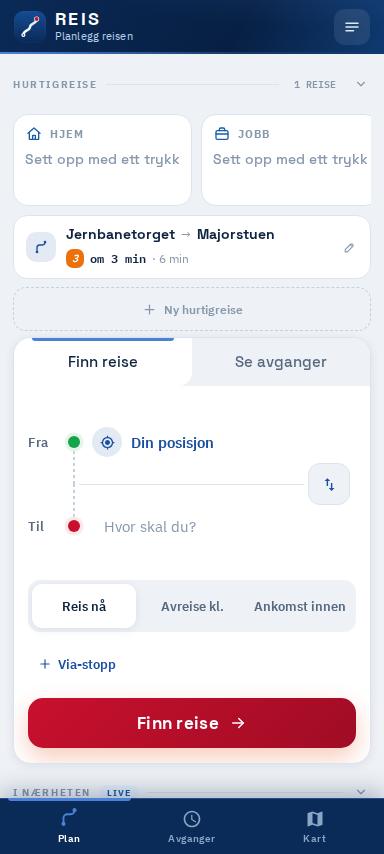
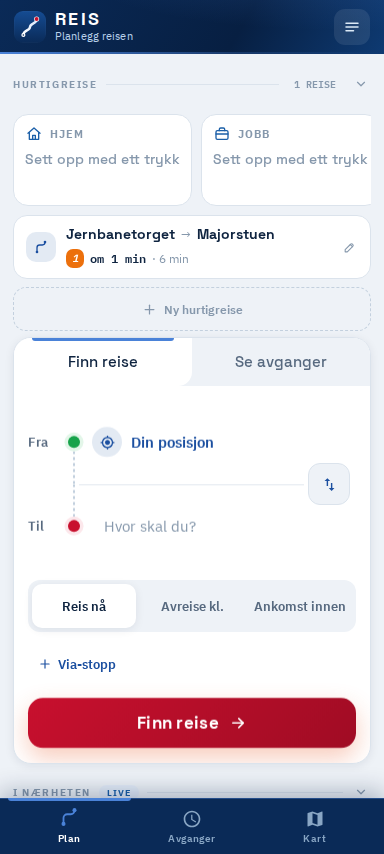
Add files via upload

Changed region(s): [[0.4688, 0.822, 0.5625, 0.8525]]

diff --git a/index.html b/index.html
@@ -433,7 +433,10 @@ a{color:inherit}
 .place-stop:hover{border-color:var(--tab-2)}
 .ps-name{flex:1;min-width:0;font-size:13.5px;font-weight:600;white-space:nowrap;overflow:hidden;text-overflow:ellipsis}
 .ps-dist{flex:none;font-family:var(--font-m);font-size:11.5px;color:var(--muted)}
-#mapHint{position:absolute;left:50%;top:14px;transform:translateX(-50%);z-index:1056;
+/* FIX: hintet lå på top:14px, altså rett oppå modusraden. Toppen av kartet
+   stables nå etter målt høyde, på samme måte som bunnen. */
+#viewMap{--top-h:0px}
+#mapHint{position:absolute;left:50%;top:calc(12px + var(--top-h));transform:translateX(-50%);z-index:1056;
   background:rgba(7,31,66,.86);color:#fff;font-size:12px;font-weight:600;padding:8px 14px;border-radius:999px;
   backdrop-filter:blur(6px);pointer-events:none;animation:viewIn .3s ease}
 /* Posisjonsknappen lyser når «følg meg» er på */
@@ -448,12 +451,12 @@ a{color:inherit}
 .mb-btn svg{width:17px;height:17px;flex:0 0 auto;display:block}
 .mb-btn.on{background:var(--navy);color:#fff;box-shadow:var(--sh-1)}
 .mb-btn.on svg{color:var(--tab-2)}
-#mapCtxChip{position:absolute;top:64px;left:12px;z-index:1040;background:var(--navy);color:#fff;font-size:12px;padding:8px 13px;border-radius:999px;box-shadow:var(--sh-2);display:flex;gap:7px;align-items:center;max-width:72%;white-space:nowrap;overflow:hidden;text-overflow:ellipsis}
+#mapCtxChip{position:absolute;top:calc(12px + var(--top-h) + var(--hint-h,0px));left:12px;z-index:1040;background:var(--navy);color:#fff;font-size:12px;padding:8px 13px;border-radius:999px;box-shadow:var(--sh-2);display:flex;gap:7px;align-items:center;max-width:72%;white-space:nowrap;overflow:hidden;text-overflow:ellipsis}
 #mapCtxChip b{font-family:var(--font-m)}
 /* Kartkortet, lagvelgeren og knappene lå alle forankret til bunnen med faste
    pikselverdier – derfor la de seg oppå hverandre. Nå stables de: --card-h og
    --layer-h måles i JS, og alt over regner seg ut fra dem. */
-#viewMap{--card-h:0px;--layer-h:0px}
+#viewMap{--card-h:0px;--layer-h:0px;--top-h:0px;--hint-h:0px}
 .fabs{position:absolute;right:12px;z-index:1050;display:flex;flex-direction:column;gap:9px;
   bottom:calc(18px + var(--card-h) + var(--layer-h));
   transition:bottom .28s cubic-bezier(.22,1,.36,1)}
@@ -664,6 +667,7 @@ a{color:inherit}
 /* Fra/Til som rader med felles skillelinje – ikke to separate bokser */
 .sc-row{display:flex;align-items:center;gap:12px;min-height:48px}
 .sc-lab{flex:none;width:28px;font-size:12.5px;font-weight:600;color:var(--muted);letter-spacing:.01em}
+.sc-lab-wide{width:auto;min-width:40px}
 .sc-row input{flex:1;min-width:0;height:44px;border:none;background:none;font-size:15px;
   font-family:var(--font-b);color:var(--ink)}
 .sc-row input::placeholder{color:var(--faint)}
@@ -949,7 +953,7 @@ a{color:inherit}
 
             <div class="sc-body" id="scStop" hidden>
               <div class="sc-row">
-                <span class="sc-lab">Stopp</span>
+                <span class="sc-lab sc-lab-wide">Stopp</span>
                 <input type="text" id="scStopInput" data-ac="1" autocomplete="off" placeholder="Søk etter holdeplass">
               </div>
               <div class="sc-acts">
@@ -2986,8 +2990,14 @@ function syncModeBar(){
   /* Modusraden gjelder ruteberegning. Uten en rute var den en meny uten
      funksjon, så den vises først når du faktisk har noe å regne om. */
   const bar=$('#modeBar');
-  if(bar)bar.hidden=!(state.selectedPattern||state.streetRoute||(state.stops[0]&&state.stops[0].lat&&state.stops.at(-1)&&state.stops.at(-1).lat));
-  $$('#modeBar .mb-btn').forEach(b=>b.classList.toggle('on',b.dataset.mode===state.routeMode))}
+  if(bar){
+    const før=bar.hidden;
+    bar.hidden=!(state.selectedPattern||state.streetRoute||
+      (state.stops[0]&&state.stops[0].lat&&state.stops.at(-1)&&state.stops.at(-1).lat));
+    if(før!==bar.hidden&&typeof measureStack==='function')measureStack();
+  }
+  $$('#modeBar .mb-btn').forEach(b=>b.classList.toggle('on',b.dataset.mode===state.routeMode));
+}
 function selectPattern(i){state.selectedPattern=state.results[i];if(!state.selectedPattern)return;state.routeMode='transit';state.streetRoute=null;syncModeBar();switchTab('map')}
 
 function toolsHTML(withWakeExit){
@@ -3249,8 +3259,8 @@ const STOP_ZOOM=13, MAX_PINS=45;
 async function loadStopMarkers(force){
   if(!mapUsable()||!stopsLayer)return;
   const z=map.getZoom();
-  if(z<STOP_ZOOM){stopsLayer.clearLayers();shownStopIds.clear();$('#mapHint').hidden=false;return}
-  $('#mapHint').hidden=true;
+  if(z<STOP_ZOOM){stopsLayer.clearLayers();shownStopIds.clear();$('#mapHint').hidden=false;measureStack();return}
+  if(!$('#mapHint').hidden){$('#mapHint').hidden=true;measureStack()}
   if(stopMarkersBusy)return;
   /* Bremsen skal hindre kall ved smådrag – ikke ved zoom eller nytt område. */
   const c0=map.getCenter();
@@ -3469,13 +3479,27 @@ function applyCardCollapse(){
 }
 /* Måler hva som faktisk står nederst, slik at ingenting overlapper uansett
    hvor høyt kortet blir. Kalles ved hver endring, og av en ResizeObserver. */
+let stackRaf=0;
 function measureStack(){
+  /* Elementene tegnes og måles i samme tikk. Blir noe synlig rett før, rekker
+     ikke layouten å bli oppdatert – derfor en ekstra måling neste bilde. */
+  cancelAnimationFrame(stackRaf);
+  stackRaf=requestAnimationFrame(()=>measureStackNow());
+  measureStackNow();
+}
+function measureStackNow(){
   const vm=$('#viewMap'),card=$('#mapCard'),ls=$('#layerSheet');
   if(!vm)return;
   const ch=(card&&!card.hidden)?card.offsetHeight+12:0;
   const lh=(ls&&!ls.hidden)?ls.offsetHeight+8:0;
   vm.style.setProperty('--card-h',ch+'px');
   vm.style.setProperty('--layer-h',lh+'px');
+  /* Toppen: modusraden og hintet skal stable seg, ikke overlappe. */
+  const mb=$('#modeBar'),hint=$('#mapHint');
+  const th=(mb&&!mb.hidden)?mb.offsetHeight+8:0;
+  vm.style.setProperty('--top-h',th+'px');
+  const hh=(hint&&!hint.hidden)?hint.offsetHeight+8:0;
+  vm.style.setProperty('--hint-h',hh+'px');
 }
 if(window.ResizeObserver){
   const ro=new ResizeObserver(()=>measureStack());
@@ -3551,7 +3575,7 @@ function showRouteCard(p){
   bindCardGrip();
   $('#mcDetail').onclick=()=>openDetail(state.results.indexOf(p));
   $('#mcClear').onclick=clearRoute;$('#mcSetB').onclick=armMapTap;bindTools($('#mcTools'),true);
-  $('#mapCtxChip').innerHTML=`Kollektiv · <b>${fmtDur(p.duration)}</b> · ${p.legs.length} etapper`;
+  $('#mapCtxChip').innerHTML=`Kollektiv · <b>${fmtDur(p.duration)}</b> · ${p.legs.length} etapper`;measureStack();
   fillCompare('transit');if(to.lat)fillWeather(to.lat,to.lon);if(p.distance)fillCO2(p.distance);fillFareMeta();
 }
 async function computeStreetRoute(m){
@@ -3585,7 +3609,7 @@ function showStreetCard(route,m,pts){
    <div class="mc-acts"><button class="mini-btn" id="mcSetB">${IC.pin}Sett mål på kartet</button></div>`);
   bindCardGrip();
   $('#mcClear').onclick=clearRoute;$('#mcSetB').onclick=armMapTap;bindTools($('#mcTools'),false);
-  $('#mapCtxChip').innerHTML=`${st.l} · <b>${fmtDur(route.duration)}</b> · ${fmtWalk(route.distance)}`;
+  $('#mapCtxChip').innerHTML=`${st.l} · <b>${fmtDur(route.duration)}</b> · ${fmtWalk(route.distance)}`;measureStack();
   fillCompare(m);fillWeather(b.lat,b.lon);
   if(m==='bike'||m==='foot')fillElev(route.geometry.coordinates.map(c=>[c[1],c[0]]));
   if(m==='bike'){const nb=nearestBike(b.lat,b.lon);if(nb){const slot=$('#mcMeta');if(slot)slot.innerHTML+=`<span class="meta-chip bike">${IC.bike}${esc(nb.name)} · ${nb.avail} ledige · ${fmtWalk(nb.dist)}</span>`}
@@ -3716,7 +3740,7 @@ function showStopCard(s){
     <div id="mcRows"><div class="skel" style="height:40px;margin-top:8px"></div></div>`);
   bindCardGrip();
   $('#mcAll').onclick=()=>switchTab('depart');bindTools($('#mcTools'),false,s.id,s.name);
-  $('#mapCtxChip').innerHTML=`Stoppested · ${esc(s.name)}`;
+  $('#mapCtxChip').innerHTML=`Stoppested · ${esc(s.name)}`;measureStack();
   (async()=>{try{if(state.departuresFor!==s.id||!state.departures.length){const sp=await getDepartures(s.id);state.departures=mapCalls(sp);state.departuresFor=s.id}
     const rows=$('#mcRows');if(!rows)return;
     rows.innerHTML=state.departures.slice(0,3).map(d=>{const mm=MODE[d.mode]||MODE.bus;
@@ -3731,6 +3755,7 @@ function hideMapCard(){$('#mapCard').hidden=true;$('#viewMap').classList.remove(
 function applyMapContext(){
   /* Kalles også fra Plan-fanen (via clearRoute). Da har kartet ingen flate. */
   if(!mapUsable()){whenMapVisible(applyMapContext);return}
+  setTimeout(measureStack,0);
   const vm=$('#viewMap');
   if(state.routeMode!=='transit'&&state.streetRoute&&state.streetRoute.mode===state.routeMode){vm.classList.add('has-card');const pts=state.stops.filter(s=>s.lat);drawStreetRoute(state.streetRoute.route,state.streetRoute.mode,pts.length>=2?pts:state.stops);showStreetCard(state.streetRoute.route,state.streetRoute.mode,pts.length>=2?pts:state.stops)}
   else if(state.selectedPattern){vm.classList.add('has-card');drawPattern(state.selectedPattern);showRouteCard(state.selectedPattern)}

diff --git a/sw.js b/sw.js
@@ -5,7 +5,7 @@
      kartfliser → cache-first med tak på antall fliser
      API-er     → network-first med cachet fallback (tunnel/dårlig dekning)
 */
-const VERSION = 'v5.2.0';
+const VERSION = 'v5.3.0';
 const SHELL_CACHE = `reis-shell-${VERSION}`;
 const TILE_CACHE = `reis-tiles-${VERSION}`;
 const DATA_CACHE = `reis-data-${VERSION}`;

diff --git a/ENDRINGER.md b/ENDRINGER.md
@@ -2,7 +2,7 @@
 
 Alt under er verifisert mot Entur live 31. juli 2026, ikke gjettet.
 `node test-live.js` kjører appens egne spørringer mot API-et (15 tester),
-`node test-dom.js` tester grensesnitt og logikk i jsdom (187 tester),
+`node test-dom.js` tester grensesnitt og logikk i jsdom (189 tester),
 `python3 shot.py`, `measure.py`, `swipe_test.py`, `fill_test.py`, `qt_test.py`,
 `sec_test.py`, `overlap_test.py`, `perf_test.py`, `font_test.py`, `a11y.py` og
 `polish_test.py`, `plan_test.py`, `soak.py`, `regress_map.py` og `update_test.py`
@@ -164,6 +164,44 @@ Nå:
 
 Testen booter appen i jsdom **uten** Leaflet i det hele tatt og bekrefter at den
 starter, at Plan-fanen tegnes, og at alle kartfunksjonene har vakt.
+
+---
+
+## Gjennomgang: overlapp, fanebytte, avkuttet tekst
+
+Meldt av bruker: «Zoom inn for å se holdeplasser» la seg oppå modusraden. Det
+ble utgangspunktet for en systematisk gjennomgang (`audit_test.py`) som går
+gjennom **14 tilstander** i appen og måler faktisk overlappende areal mellom alle
+flytende elementer, om noe havner utenfor skjermen, og om tekst er avkuttet.
+
+**Feilen brukeren så:** hintet lå på `top:14px`, modusraden på `top:12px` – begge
+festet til toppen uten å vite om hverandre. Toppen av kartet stables nå etter
+målt høyde, akkurat som bunnen allerede gjorde: modusrad → hint → kontekst-chip.
+
+**To feil til som gjennomgangen fant, og som ingen hadde meldt:**
+
+1. **Kontekst-chipen overlappet modusraden med 4 557 px²** når du åpnet en reise
+   i kartet. Årsaken var timing: chipen ble tegnet i samme øyeblikk som
+   modusraden dukket opp, og målingen skjedde før nettleseren hadde lagt ut
+   endringen. Stabelen måles nå også neste bilde (`requestAnimationFrame`).
+2. **Etiketten «Stopp» ble kuttet.** Kolonnen var låst til 28 px for å passe
+   «Fra»/«Til»; «Stopp» trenger 37. Fikk egen bredde.
+
+**Resultat etter rettelsene:**
+
+| Sjekk | Resultat |
+|---|---|
+| Tilstander gjennomgått | 14 |
+| Overlappende elementer | **0** |
+| Elementer utenfor skjermen | **0** |
+| Avkuttet tekst | **0** |
+| Fanebytte (alle 6 kombinasjoner) | alle ok |
+| Sideskriptfeil | **0** |
+
+> Første versjon av gjennomgangen ga en haug med falske alarmer: den regnet
+> `.tap`-elementenes usynlige 44 px trykksone som «avkuttet tekst», og innhold
+> under skjermkanten i rullelister som «utenfor skjermen». En test som roper ulv
+> er verre enn ingen test, så den ble strammet inn før tallene ble brukt til noe.
 
 ---
 
